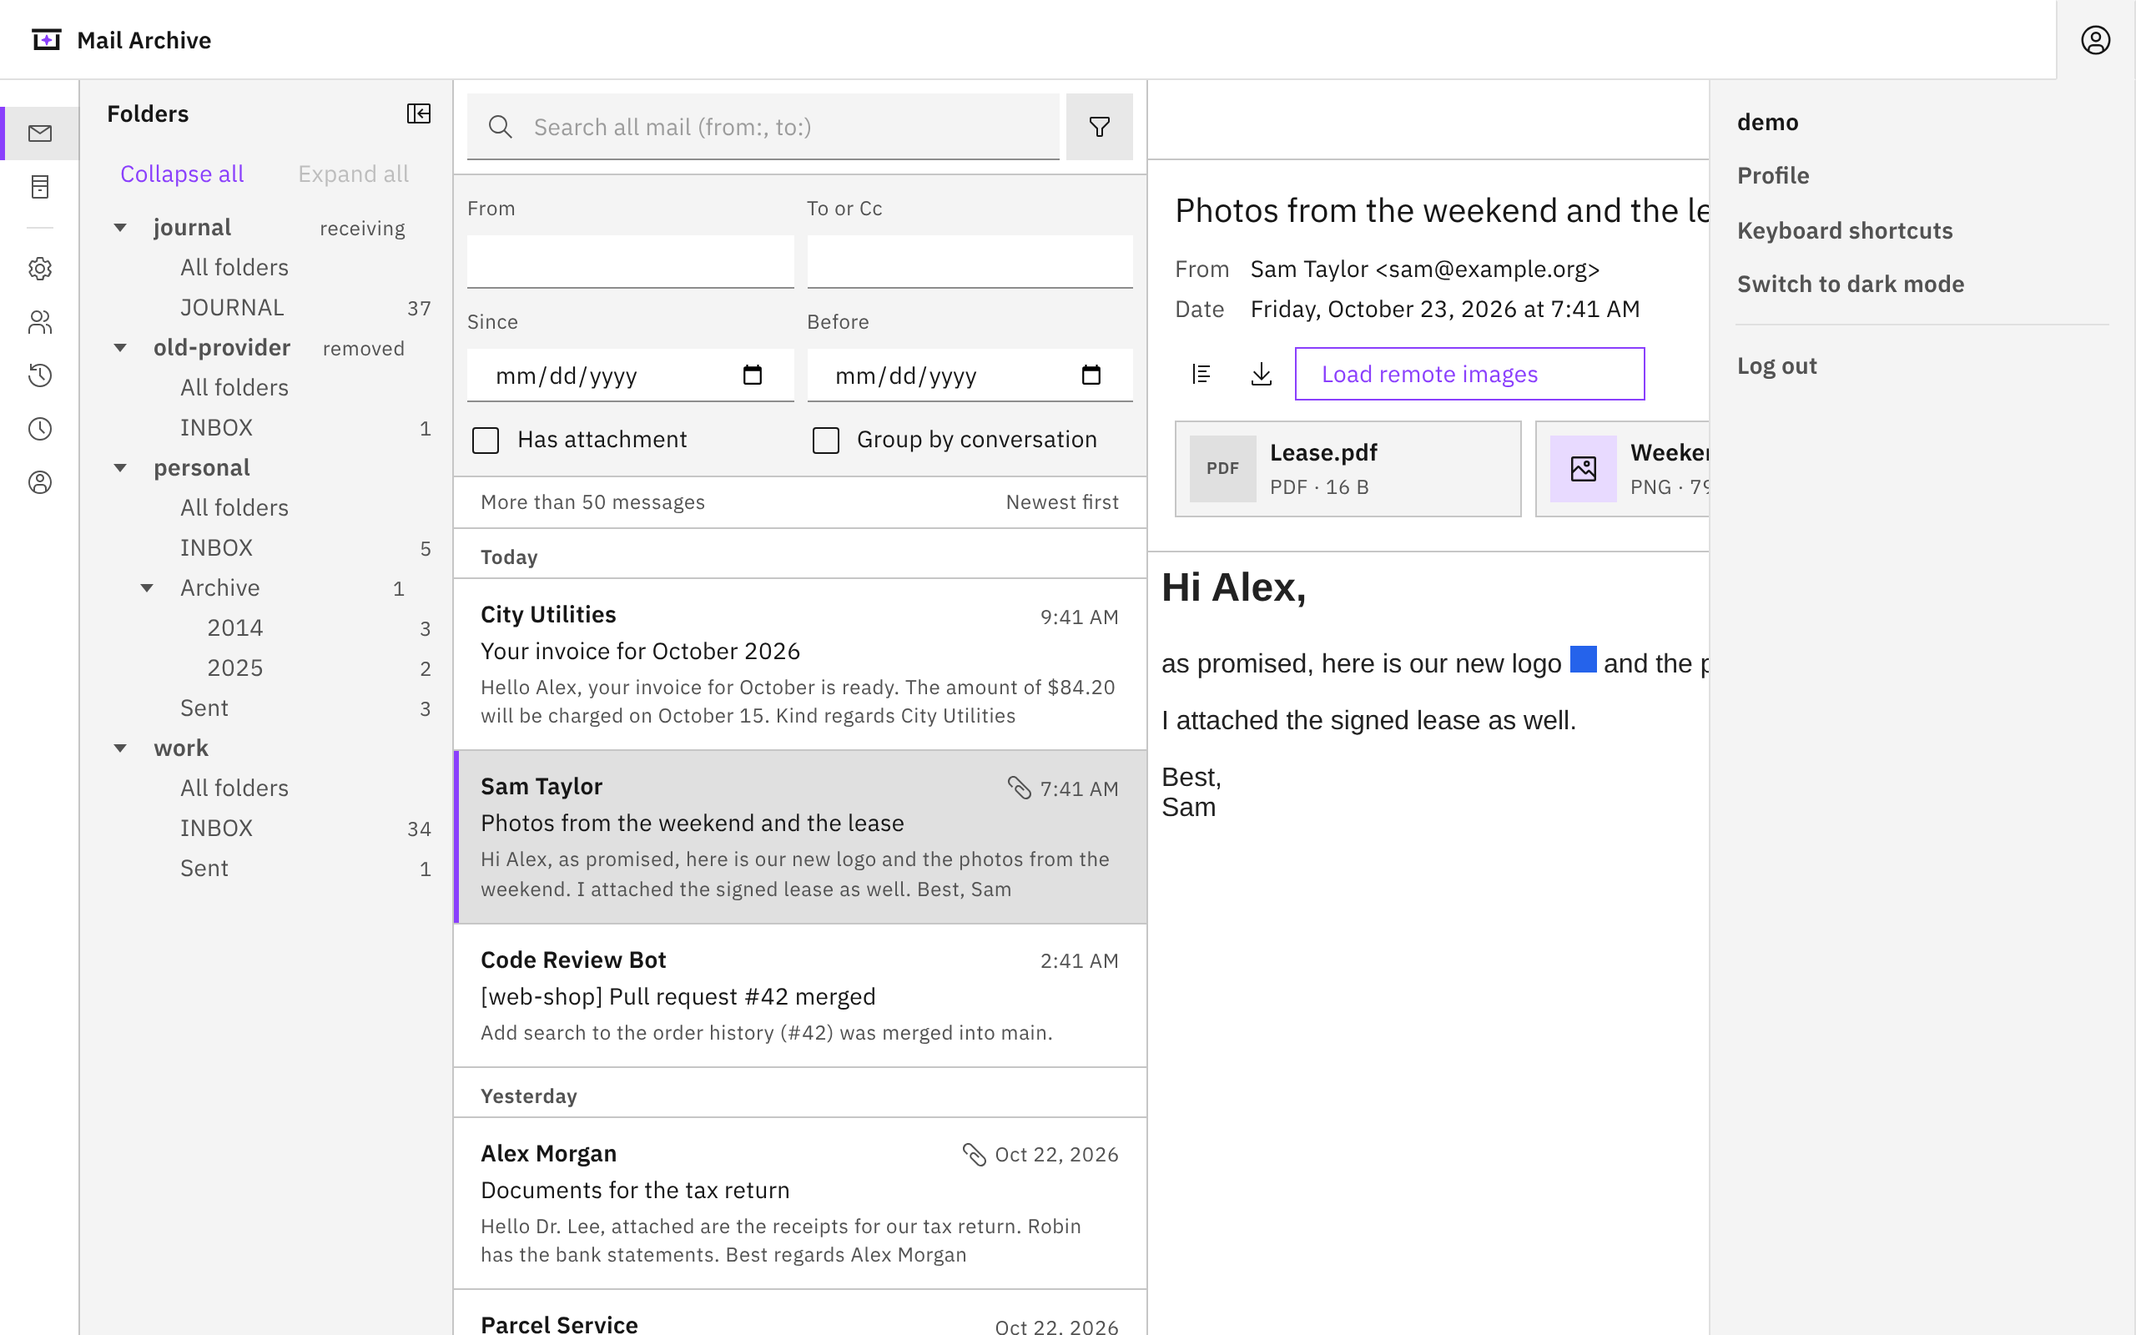
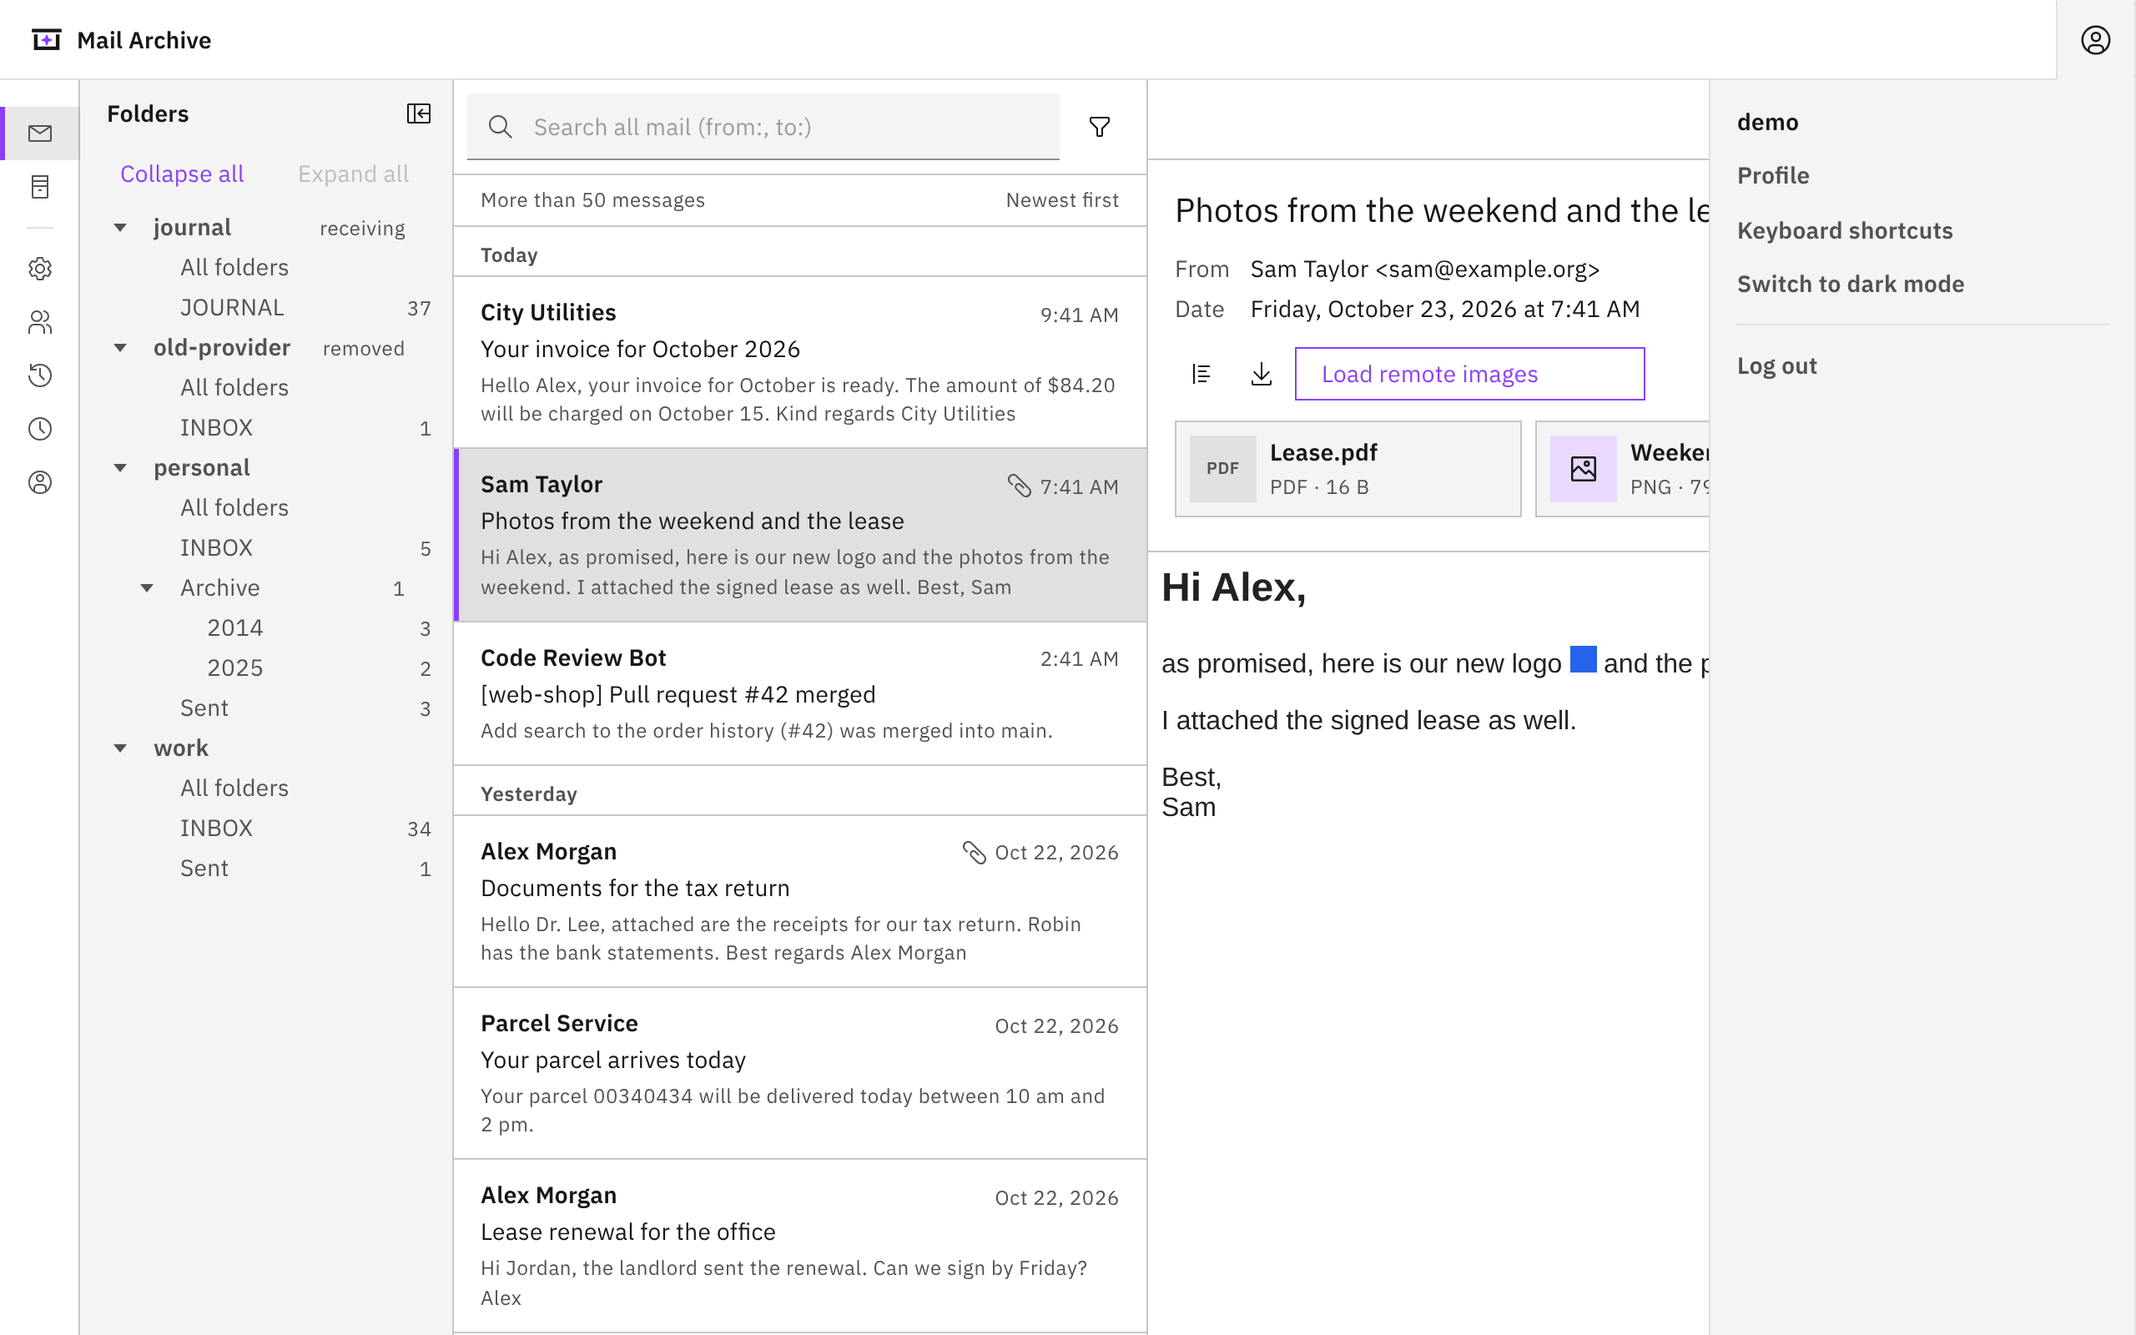
Filters popover: e2e, docs text and screenshots (#286)
e2e/filters.spec.ts proves the listener order in Chromium (Escape on the
button, a click into Since, Escape in Since, keys on a calendar day,
Edit filters, a calendar pick and a preset, outside clicks) at 1280 and
390 px; the 16 px check covers the date field. The guide describes the
popover, the presets and Since/Until; make docs-screenshots adds
search-filters.png and refreshes the mail-view shots, whose filter panel
no longer starts open.

Claude-Session: https://claude.ai/code/session_016UE6pPWbSnN1w5ogjWfwrD

diff --git a/web/e2e/filters.spec.ts b/web/e2e/filters.spec.ts
@@ -1,0 +1,161 @@
+// The filter button's popover with the lazy filter form and the date range
+// (#286), in a real browser: jsdom does not model the order of the
+// popover's, Carbon's and flatpickr's listeners, so these paths are proved
+// here. The fixture's guards fail a test on any console error or CSP
+// violation, which covers flatpickr's positioning under style-src 'self'.
+import type { Locator, Page } from "@playwright/test";
+import { isChunkOf } from "../scripts/lazyChunks.mjs";
+import { expect, test } from "./fixtures";
+
+const fileOf = (path: string) => path.split("/").pop() ?? "";
+
+/** The local day n days from today in the page's time zone, as YYYY-MM-DD. */
+function dayFromToday(page: Page, n: number): Promise<string> {
+  return page.evaluate((n) => {
+    const d = new Date();
+    d.setDate(d.getDate() + n);
+    return `${d.getFullYear()}-${String(d.getMonth() + 1).padStart(2, "0")}-${String(d.getDate()).padStart(2, "0")}`;
+  }, n);
+}
+
+function parts(page: Page) {
+  const button = page.getByRole("button", { name: "Filters", exact: true });
+  const form = page.getByRole("group", { name: "Filters", exact: true });
+  const since = form.getByRole("textbox", { name: "Since" });
+  const calendar = page.locator(".flatpickr-calendar.open");
+  return { button, form, since, calendar };
+}
+
+async function ready(page: Page, url = "/") {
+  await page.goto(url);
+  await expect(page.getByRole("list", { name: "Messages" }).getByRole("button").first()).toBeVisible();
+}
+
+/** A click outside the popover: into the search field, which the popover does not cover. */
+async function outside(page: Page) {
+  await page.getByRole("searchbox", { name: "Search mail" }).click({ position: { x: 8, y: 8 } });
+}
+
+/** Whether the box lies inside the viewport. */
+async function inViewport(page: Page, el: Locator) {
+  const box = await el.boundingBox();
+  const vp = page.viewportSize()!;
+  expect(box).not.toBeNull();
+  expect(box!.x).toBeGreaterThanOrEqual(0);
+  expect(box!.y).toBeGreaterThanOrEqual(0);
+  expect(box!.x + box!.width).toBeLessThanOrEqual(vp.width);
+  expect(box!.y + box!.height).toBeLessThanOrEqual(vp.height);
+}
+
+for (const size of [
+  { name: "desktop 1280×800", viewport: { width: 1280, height: 800 } },
+  { name: "phone 390×780", viewport: { width: 390, height: 780 } },
+]) {
+  test.describe(size.name, () => {
+    test.use({ viewport: size.viewport });
+
+    test("the form's chunk loads on first open; Escape on the button closes the popover", async ({ page }) => {
+      await ready(page);
+      const { button, form } = parts(page);
+      await expect(form).toHaveCount(0);
+      const chunk = page.waitForResponse((r) => isChunkOf(fileOf(new URL(r.url()).pathname), "FilterPanel"));
+      await button.click();
+      expect((await chunk).status()).toBe(200);
+      await expect(form).toBeVisible();
+      await inViewport(page, form);
+      await expect(button).toBeFocused();
+      await page.keyboard.press("Escape");
+      await expect(form).toHaveCount(0);
+      await expect(button).toHaveAttribute("aria-expanded", "false");
+      await expect(button).toBeFocused();
+    });
+
+    test("a click into Since keeps the popover open; Escape closes the calendar, then the popover", async ({ page }) => {
+      await ready(page);
+      const { button, form, since, calendar } = parts(page);
+      await button.click();
+      await since.click();
+      await expect(calendar).toBeVisible();
+      await expect(form).toBeVisible();
+      await expect(since).toBeFocused();
+      await inViewport(page, calendar);
+      await page.keyboard.press("Escape");
+      await expect(calendar).toHaveCount(0);
+      await expect(form).toBeVisible();
+      await expect(since).toBeFocused();
+      await page.keyboard.press("Escape");
+      await expect(form).toHaveCount(0);
+      await expect(button).toBeFocused();
+    });
+
+    test("a key on a calendar day is the calendar's: j opens no message, Escape goes back to Since", async ({ page }) => {
+      await ready(page);
+      const { button, form, since, calendar } = parts(page);
+      await button.click();
+      await since.focus();
+      await expect(calendar).toBeVisible();
+      await page.keyboard.press("Tab");
+      await expect(calendar.locator(".flatpickr-day:focus")).toHaveCount(1);
+      await page.keyboard.press("j");
+      await expect(page).not.toHaveURL(/[?&]m=/);
+      await expect(page.getByRole("article")).toHaveCount(0);
+      await page.keyboard.press("Escape");
+      await expect(calendar).toHaveCount(0);
+      await expect(form).toBeVisible();
+      await expect(since).toBeFocused();
+    });
+
+    test("a range picked in the calendar and a preset give the search's after: and before:, and survive a reload", async ({ page }) => {
+      await ready(page);
+      const { button, form, since, calendar } = parts(page);
+      await button.click();
+      await since.click();
+      // The 3rd to the 10th of the month shown (today's), the end inclusive.
+      const days = calendar.locator(".flatpickr-day:not(.prevMonthDay):not(.nextMonthDay)");
+      await days.nth(2).click();
+      await days.nth(9).click();
+      await expect(calendar).toHaveCount(0);
+      await expect(form).toBeVisible();
+      const month = (await dayFromToday(page, 0)).slice(0, 7);
+      await expect(page).toHaveURL(new RegExp(`[?&]q=after%3A${month}-03(%20|\\+)before%3A${month}-11(&|$)`));
+      await expect(form.getByRole("radio", { name: "Custom" })).toBeChecked();
+      const tags = page.getByRole("list", { name: "Active filters" });
+      await expect(tags.getByText(/^Date: .+ – .+$/)).toBeVisible();
+
+      // A preset fills after: only; an outside click (into the search) closes the popover.
+      await form.getByText("Last 30 days", { exact: true }).click();
+      const since30 = await dayFromToday(page, -29);
+      await expect(page).toHaveURL(new RegExp(`[?&]q=after%3A${since30}(&|$)`));
+      await outside(page);
+      await expect(form).toHaveCount(0);
+      await page.reload();
+      await button.click();
+      await expect(form.getByRole("radio", { name: "Last 30 days" })).toBeChecked();
+      await expect(form.getByRole("textbox", { name: "Since" })).not.toHaveValue("");
+    });
+
+    test("an outside click with the calendar open closes both", async ({ page }) => {
+      await ready(page);
+      const { button, form, since, calendar } = parts(page);
+      await button.click();
+      await since.click();
+      await expect(calendar).toBeVisible();
+      await outside(page);
+      await expect(calendar).toHaveCount(0);
+      await expect(form).toHaveCount(0);
+    });
+
+    test("Edit filters opens the popover at the first tag's field, also a second time", async ({ page }) => {
+      await ready(page, "/?q=from%3Asam");
+      const { form } = parts(page);
+      const edit = page.getByRole("list", { name: "Active filters" }).getByRole("button", { name: "Edit filters" });
+      await edit.click();
+      await expect(form).toBeVisible();
+      await expect(form.getByRole("textbox", { name: "From" })).toBeFocused();
+      await page.keyboard.press("Escape");
+      await expect(form).toHaveCount(0);
+      await edit.click();
+      await expect(form.getByRole("textbox", { name: "From" })).toBeFocused();
+    });
+  });
+}

diff --git a/web/src/App.filterLoading.test.tsx b/web/src/App.filterLoading.test.tsx
@@ -1,0 +1,48 @@
+// While the filter form's chunk loads (#286): the popover shows Carbon's
+// skeleton, and Edit filters has already closed the user panel. Its click
+// does not reach window (ActiveFilters), so Carbon's outside click listener
+// of the user panel cannot close it, and no focus has moved yet.
+import { cleanup, fireEvent, render, screen } from "@testing-library/react";
+import { afterEach, beforeEach, expect, it, vi } from "vitest";
+import { App } from "./App";
+import type { AccountsResponse, User } from "./api";
+import { t } from "./i18n";
+
+// A chunk that is still on its way.
+vi.mock("./FilterPanel", () => new Promise(() => {}));
+
+const accounts: AccountsResponse = {
+  accounts: [],
+  manage: true, syncInterval: "6h0m0s", syncIntervalMin: "5m0s", reconcileInterval: "", alertAfter: 3, smtp: null,
+};
+const user: User = { name: "alice", admin: false, mustChangePassword: false, twoFactorEnabled: false, twoFactorRequired: false, language: "auto", locale: "auto" };
+
+beforeEach(() => {
+  window.history.replaceState(null, "", "/?q=from%3Asam");
+  vi.stubGlobal(
+    "fetch",
+    vi.fn(async (path: string) => {
+      const body = path.startsWith("/api/accounts") ? accounts : path.startsWith("/api/messages?") ? { messages: [], nextCursor: null } : {};
+      return new Response(JSON.stringify(body), { status: 200, headers: { "Content-Type": "application/json" } });
+    }),
+  );
+});
+afterEach(() => {
+  cleanup();
+  vi.unstubAllGlobals();
+  localStorage.clear();
+});
+
+it("shows the skeleton in the popover, and Edit filters closes the user panel at once", () => {
+  render(<App user={user} logout={() => {}} />);
+  const userAction = screen.getByRole("button", { name: t.userPanelOf(user.name) });
+  fireEvent.click(userAction);
+  expect(userAction.getAttribute("aria-expanded")).toBe("true");
+  fireEvent.click(screen.getByRole("button", { name: t.editFilters }));
+  expect(userAction.getAttribute("aria-expanded")).toBe("false");
+  const button = screen.getByRole("button", { name: t.filters });
+  expect(button.getAttribute("aria-expanded")).toBe("true");
+  const popover = document.getElementById(button.getAttribute("aria-controls")!)!;
+  expect(popover.querySelector('.app-view-fallback[aria-busy="true"] .cds--skeleton__text')).not.toBeNull();
+  expect(popover.textContent).toBe("");
+});

diff --git a/web/e2e/phone.spec.ts b/web/e2e/phone.spec.ts
@@ -72,7 +72,7 @@ test("phone: the navigation and the folders, open a message, back to the list", 
   await expect(item).toBeVisible();
 });
 
-test("phone: the quick filters toggle with one tap, Edit filters opens the panel", async ({ page }) => {
+test("phone: the quick filters toggle with one tap, Edit filters opens the filter popover", async ({ page }) => {
   await page.goto("/");
   const list = page.getByRole("list", { name: "Messages" });
   const rows = list.getByRole("button");
@@ -84,7 +84,7 @@ test("phone: the quick filters toggle with one tap, Edit filters opens the panel
   const grouping = quick.getByRole("button", { name: "Group by conversation" });
   const panel = page.getByRole("group", { name: "Filters", exact: true });
   const tags = page.getByRole("list", { name: "Active filters" });
-  // The panel stays closed; the quick filters are under the search.
+  // The popover stays closed; the quick filters are under the search.
   await expect(panel).toHaveCount(0);
   await expect(attachment).toHaveAttribute("aria-pressed", "false");
 
@@ -107,13 +107,16 @@ test("phone: the quick filters toggle with one tap, Edit filters opens the panel
   await grouping.click();
   await expect(page).not.toHaveURL(/group=1/);
 
-  // A set filter's tag: "Edit filters" opens the panel at its field, the × removes it.
+  // A set filter's tag: "Edit filters" opens the popover at its field, the × removes it.
   await page.goto("/?q=from%3Asam");
   await expect(rows.first()).toBeVisible();
   await expect(panel).toHaveCount(0);
   await tags.getByRole("button", { name: "Edit filters" }).click();
   await expect(panel).toBeVisible();
   await expect(panel.getByRole("textbox", { name: "From" })).toBeFocused();
+  // The popover lies over the tag row on a phone: Escape closes it first.
+  await page.keyboard.press("Escape");
+  await expect(panel).toHaveCount(0);
   await tags.getByRole("button", { name: "Remove filter: From" }).click();
   await expect(tags).toHaveCount(0);
   await expect(page).not.toHaveURL(/from%3Asam/);

diff --git a/web/e2e/app-shell.spec.ts b/web/e2e/app-shell.spec.ts
@@ -239,6 +239,10 @@ for (const size of [
       const from = panel.getByRole("textbox", { name: "From" });
       await expect(from).toBeVisible();
       expect(await fontSize(from)).toBeGreaterThanOrEqual(16);
+      // The date range's fields too (Carbon sets .875rem on them).
+      const since = panel.getByRole("textbox", { name: "Since" });
+      await expect(since).toBeVisible();
+      expect(await fontSize(since)).toBeGreaterThanOrEqual(16);
     });
   });
 }

diff --git a/docs/guide/web-ui.md b/docs/guide/web-ui.md
@@ -245,24 +245,41 @@ Recipients and attachment names are found only with `to:` and `attachment:`,
 not by plain words: otherwise your own address would match nearly every
 message you received. The contents of attachments are not searched.
 
-The filter panel under the search field sets the same prefixes for From, To
-or Cc, the date range and attachments. It writes them into the search field,
-and prefixes you type show up in it. The filter button right of the search
-field shows and hides the panel; it is open at first on larger screens and
-closed on a phone, and the button is marked while a prefix or grouping is
-set. The URL keeps the whole search, so Back, reload and bookmarks keep the
-filters.
+The filter button right of the search field opens the filters over the
+list; they are closed at first on every screen, and the button is marked
+while a prefix or grouping is set. They set the same prefixes for From, To
+or Cc, the date range and attachments: they write them into the search
+field, and prefixes you type show up in them. The URL keeps the whole
+search, so Back, reload and bookmarks keep the filters. A click outside the
+filters, the filter button or <kbd>Esc</kbd> closes them.
+
+The date range has two fields, **Since** and **Until**; both days count.
+Type the dates in your date format (the hint below the fields shows it,
+for example `mm/dd/yyyy`), or pick them in the calendar that opens below
+the field. In the search field the range becomes `after:` the first day and
+`before:` the day after the last one. Above the fields, **Any time**,
+**Last 7 days**, **Last 30 days**, **This year** and **Custom** choose a
+range in one step: the presets set only the first day (today counts among
+the seven and thirty days), **Any time** removes both dates, and **Custom**
+keeps them and moves to **Since**. A range you edit yourself, or one no
+preset gives, shows as **Custom**. In the calendar, <kbd>Esc</kbd> closes
+the calendar first and then the filters.
+
+![The filters with Last 30 days chosen](/screenshots/search-filters.png)
 
 Every filter that is set also shows as a tag below the search field, with
-its value, for example `From: sam`; the × on a tag removes that filter.
-**Edit filters** after the tags opens the filter panel and moves the focus
-to the field of the first tag, in the panel's order (From, To or Cc, the
-date range, attachments, grouping).
+its value, for example `From: sam`; the × on a tag removes that filter, and
+the focus moves on to the next tag. A date range shows as one tag with both
+days, for example `Date: Oct 1, 2026 – Oct 31, 2026`. **Edit filters**
+after the tags opens the filters and moves the focus to the field of the
+first tag, in their order (From, To or Cc, the date range, attachments,
+grouping).
 
-On a phone, **Has attachment** and **Group by conversation** are two tags
-of their own right below the search field: one tap turns the filter on or
-off, without opening the panel. A selected one is highlighted, and these
-two filters do not show again among the tags of set filters.
+On a phone the filters fill the width of the screen. **Has attachment** and
+**Group by conversation** are two tags of their own right below the search
+field: one tap turns the filter on or off, without opening the filters. A
+selected one is highlighted, and these two filters do not show again among
+the tags of set filters.
 
 A message has an attachment when a part is marked as one, or when it is a
 named file that is not text, such as a PDF that Apple Mail sends inline.
@@ -288,7 +305,7 @@ together here, also from different accounts.
 
 ![A reply with its conversation open over the text](/screenshots/conversation.png)
 
-"Group by conversation" in the filter panel (on a phone also a tag below
+"Group by conversation" in the filters (on a phone also a tag below
 the search field) lists one row per conversation:
 its newest message, with the number of its messages as a badge. The arrow
 on the right shows the earlier ones below it. With a search or filters, a
